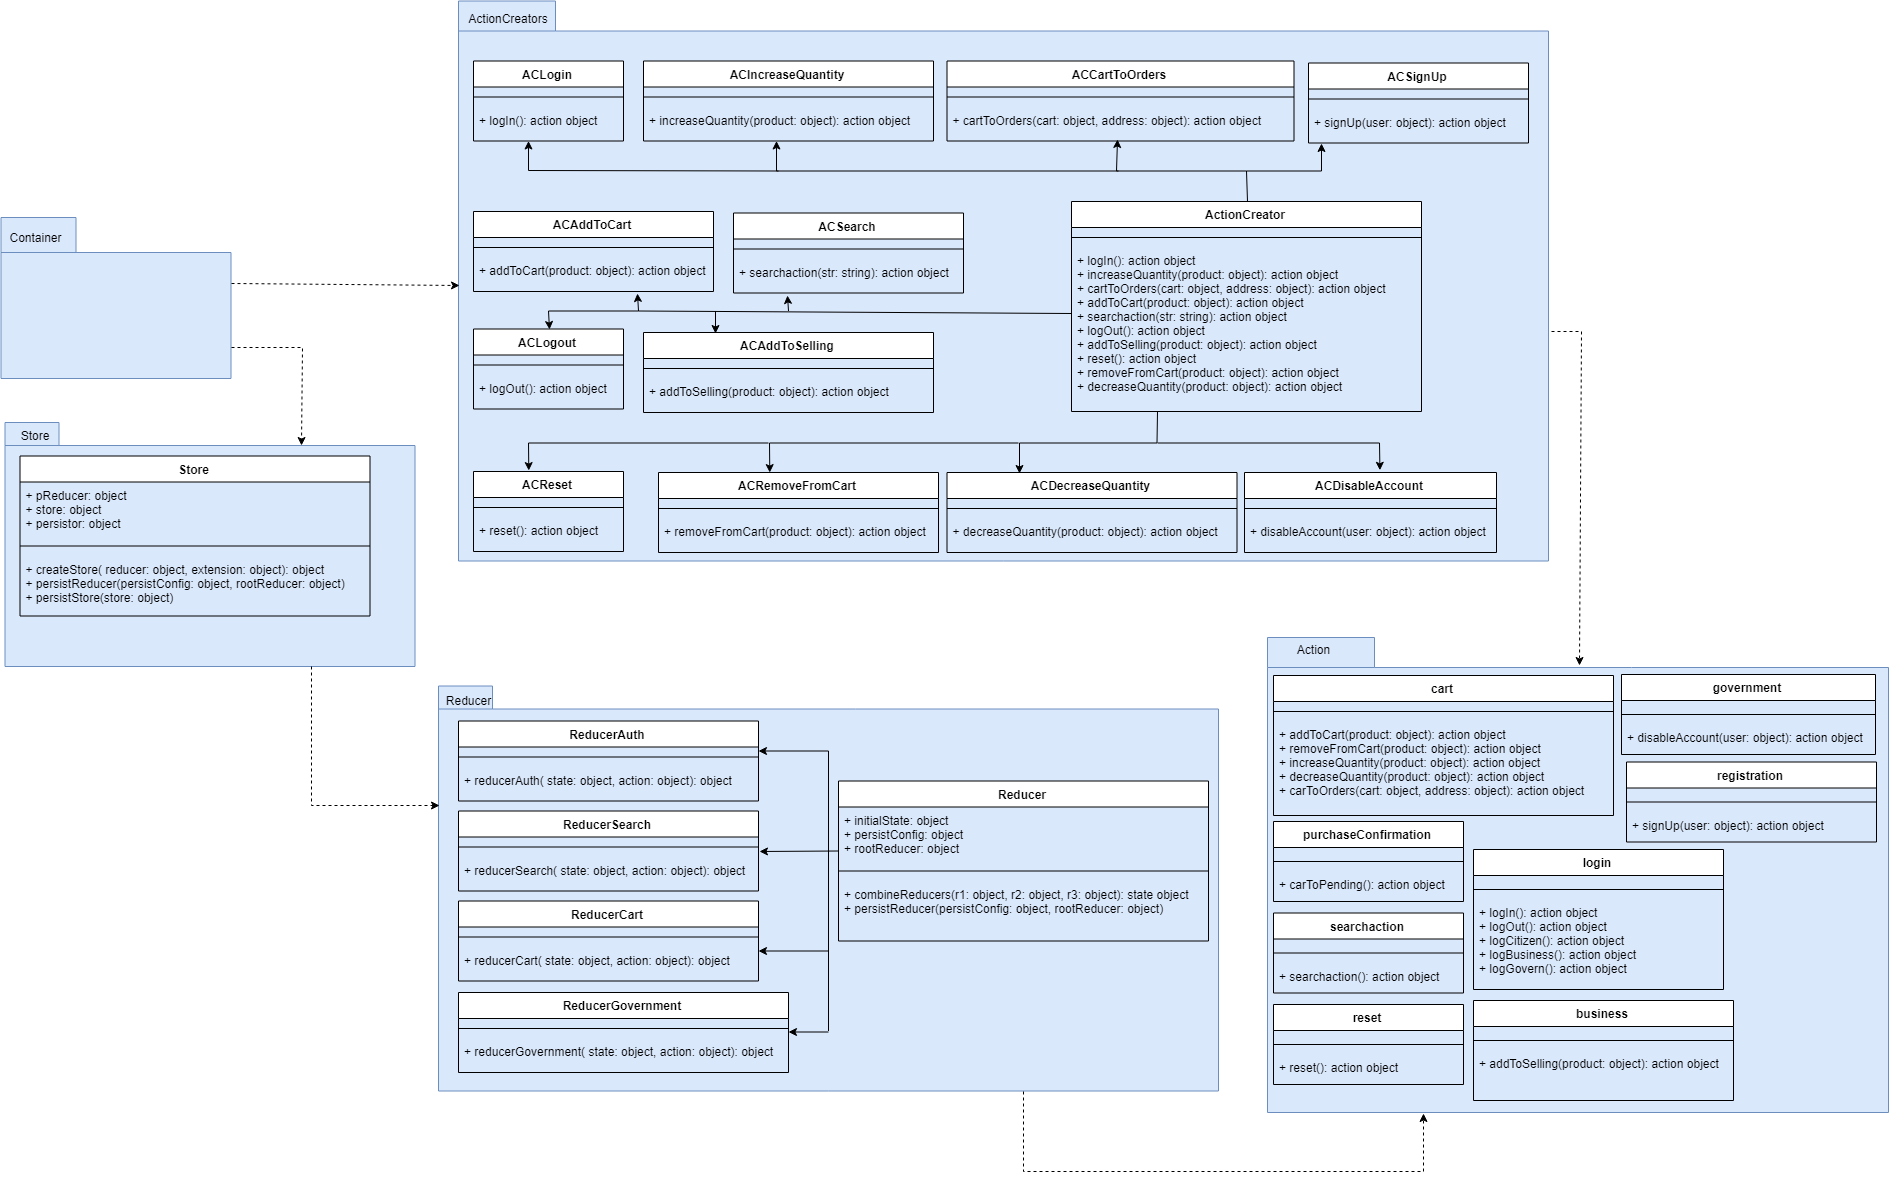
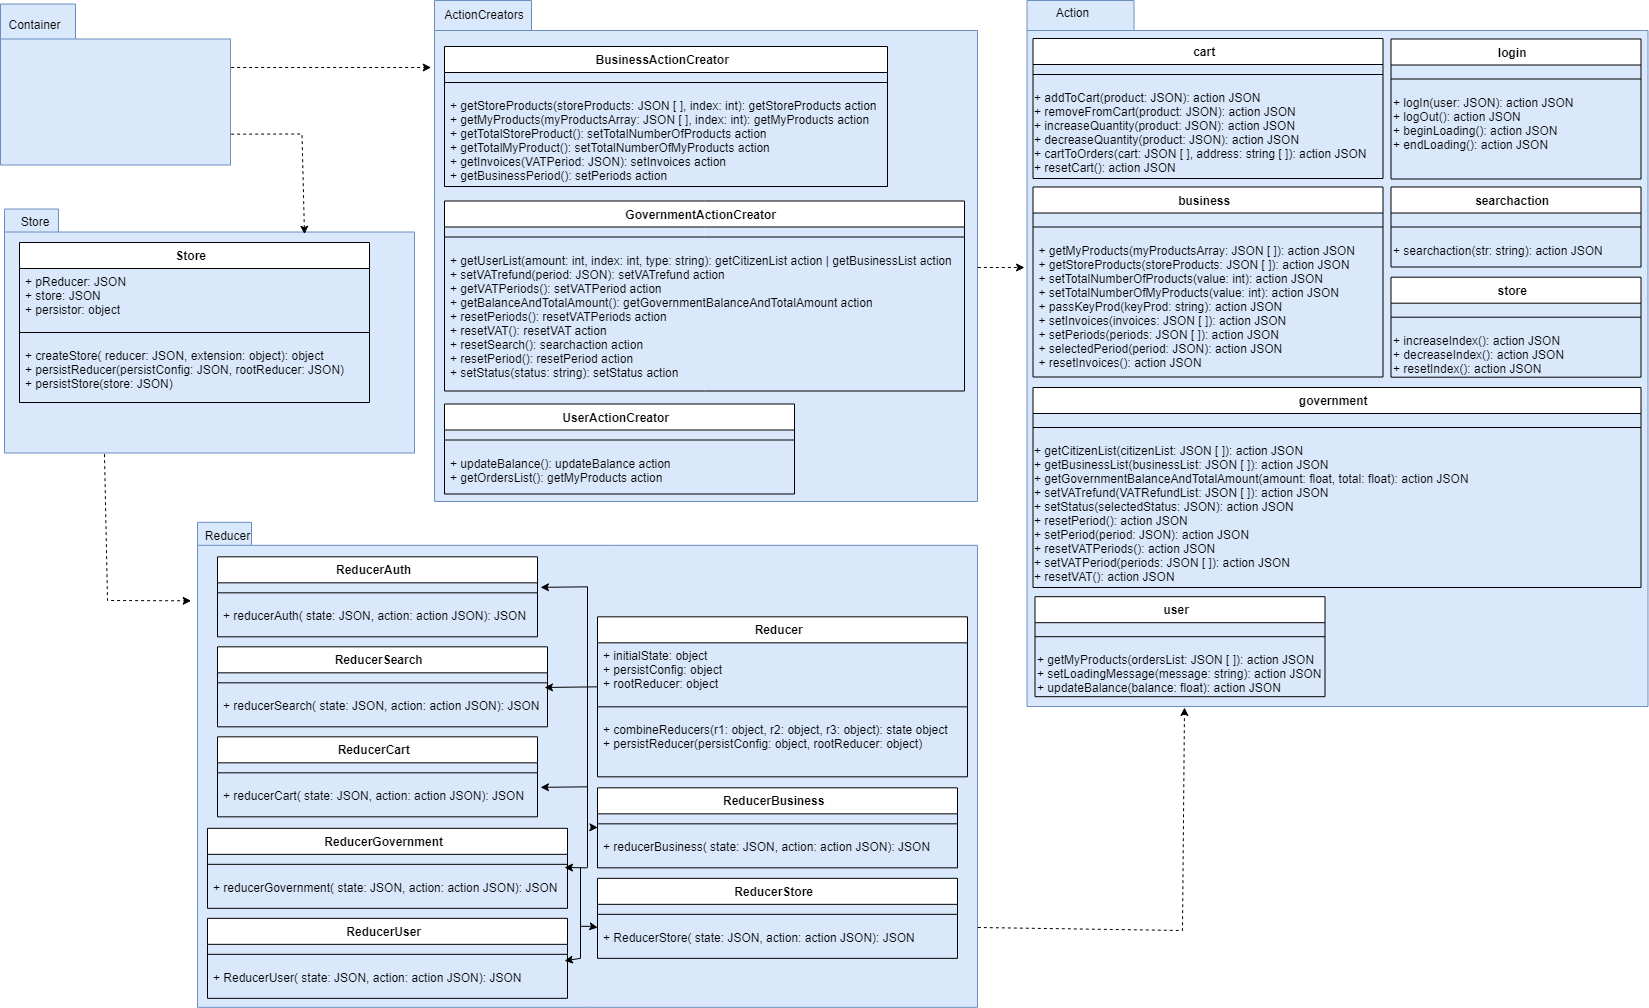
Updated redux UML

diff --git a/04-RA/Esterni/Developer_manual/res/sections/redux.tex b/04-RA/Esterni/Developer_manual/res/sections/redux.tex
@@ -72,7 +72,8 @@ There are seven main categories of actions inside the \texttt{src/actions/} fold
 	\item \textbf{user}:
 	\begin{itemize}
 		\item getMyProducts();
-		\item setLoadingMessage().
+		\item setLoadingMessage();
+		\item updateBalance().
 	\end{itemize}
 \end{itemize}
 
@@ -103,7 +104,8 @@ There are three different type of Actions Creator. Each of them interacts with F
 	\end{itemize}
 	\item \textbf{User actions creator} that contains the following functions:
 	\begin{itemize}
-		\item getOrdersList(): returns an action that sets into the redux store all the orders.
+		\item getOrdersList(): returns an action that sets into the redux store all the orders;
+		\item updateBalance(): returns an action that sets into redux store the updated balance of the logged user.
 	\end{itemize}
 	\item \textbf{Government actions creator} that contains the following functions:
 	\begin{itemize}
@@ -191,12 +193,10 @@ To implement a new feature with redux store you have to:
 	\item map the actions creator with \texttt{mapDispatchToProps()} to the props of the component and also map the field of the state with \texttt{mapStateToProps()}, then connect them to a react component through \texttt{connect(mapStateToProps, mapDispatchToProps)(component)};
 	\item call the actions creator inside the \texttt{mapDispatchToProps()} and with returned action, dispatch it for changing the state of the application, you can check the changed field by accessing it from the component with \texttt{this.props.fieldname}. 
 \end{itemize}
-
 \begin{landscape}
 	\subsection{UML} 
-	
 	\begin{figure}[H]
-		\centering\includegraphics[scale = 0.3]{res/images/ReduxDiagram.png}
+		\centering\includegraphics[scale = 0.365]{res/images/ReduxDiagram.png}
 		\caption{Redux architecture}
 	\end{figure}
 \end{landscape}

diff --git a/04-RA/Esterni/Developer_manual/res/sections/react.tex b/04-RA/Esterni/Developer_manual/res/sections/react.tex
@@ -27,12 +27,14 @@ To implement a new component with react you have to:
 \end{itemize}
 
 \subsection{UML} 
+\subsubsection{Presentational components}
 \begin{figure}[H]
-	\centering\includegraphics[scale = 0.38]{res/images/Presentational.png}
+	\centering\includegraphics[scale = 0.36]{res/images/Presentational.png}
 	\caption{Presentational components}
 \end{figure}
+\subsubsection{Container components}
 \begin{figure}[H]
-	\centering\includegraphics[scale = 0.42]{res/images/Container.png}
+	\centering\includegraphics[scale = 0.4]{res/images/Container.png}
 	\caption{Container components}
 \end{figure}
 % \subsection{Collaborations % } if there is one, sequence diag
